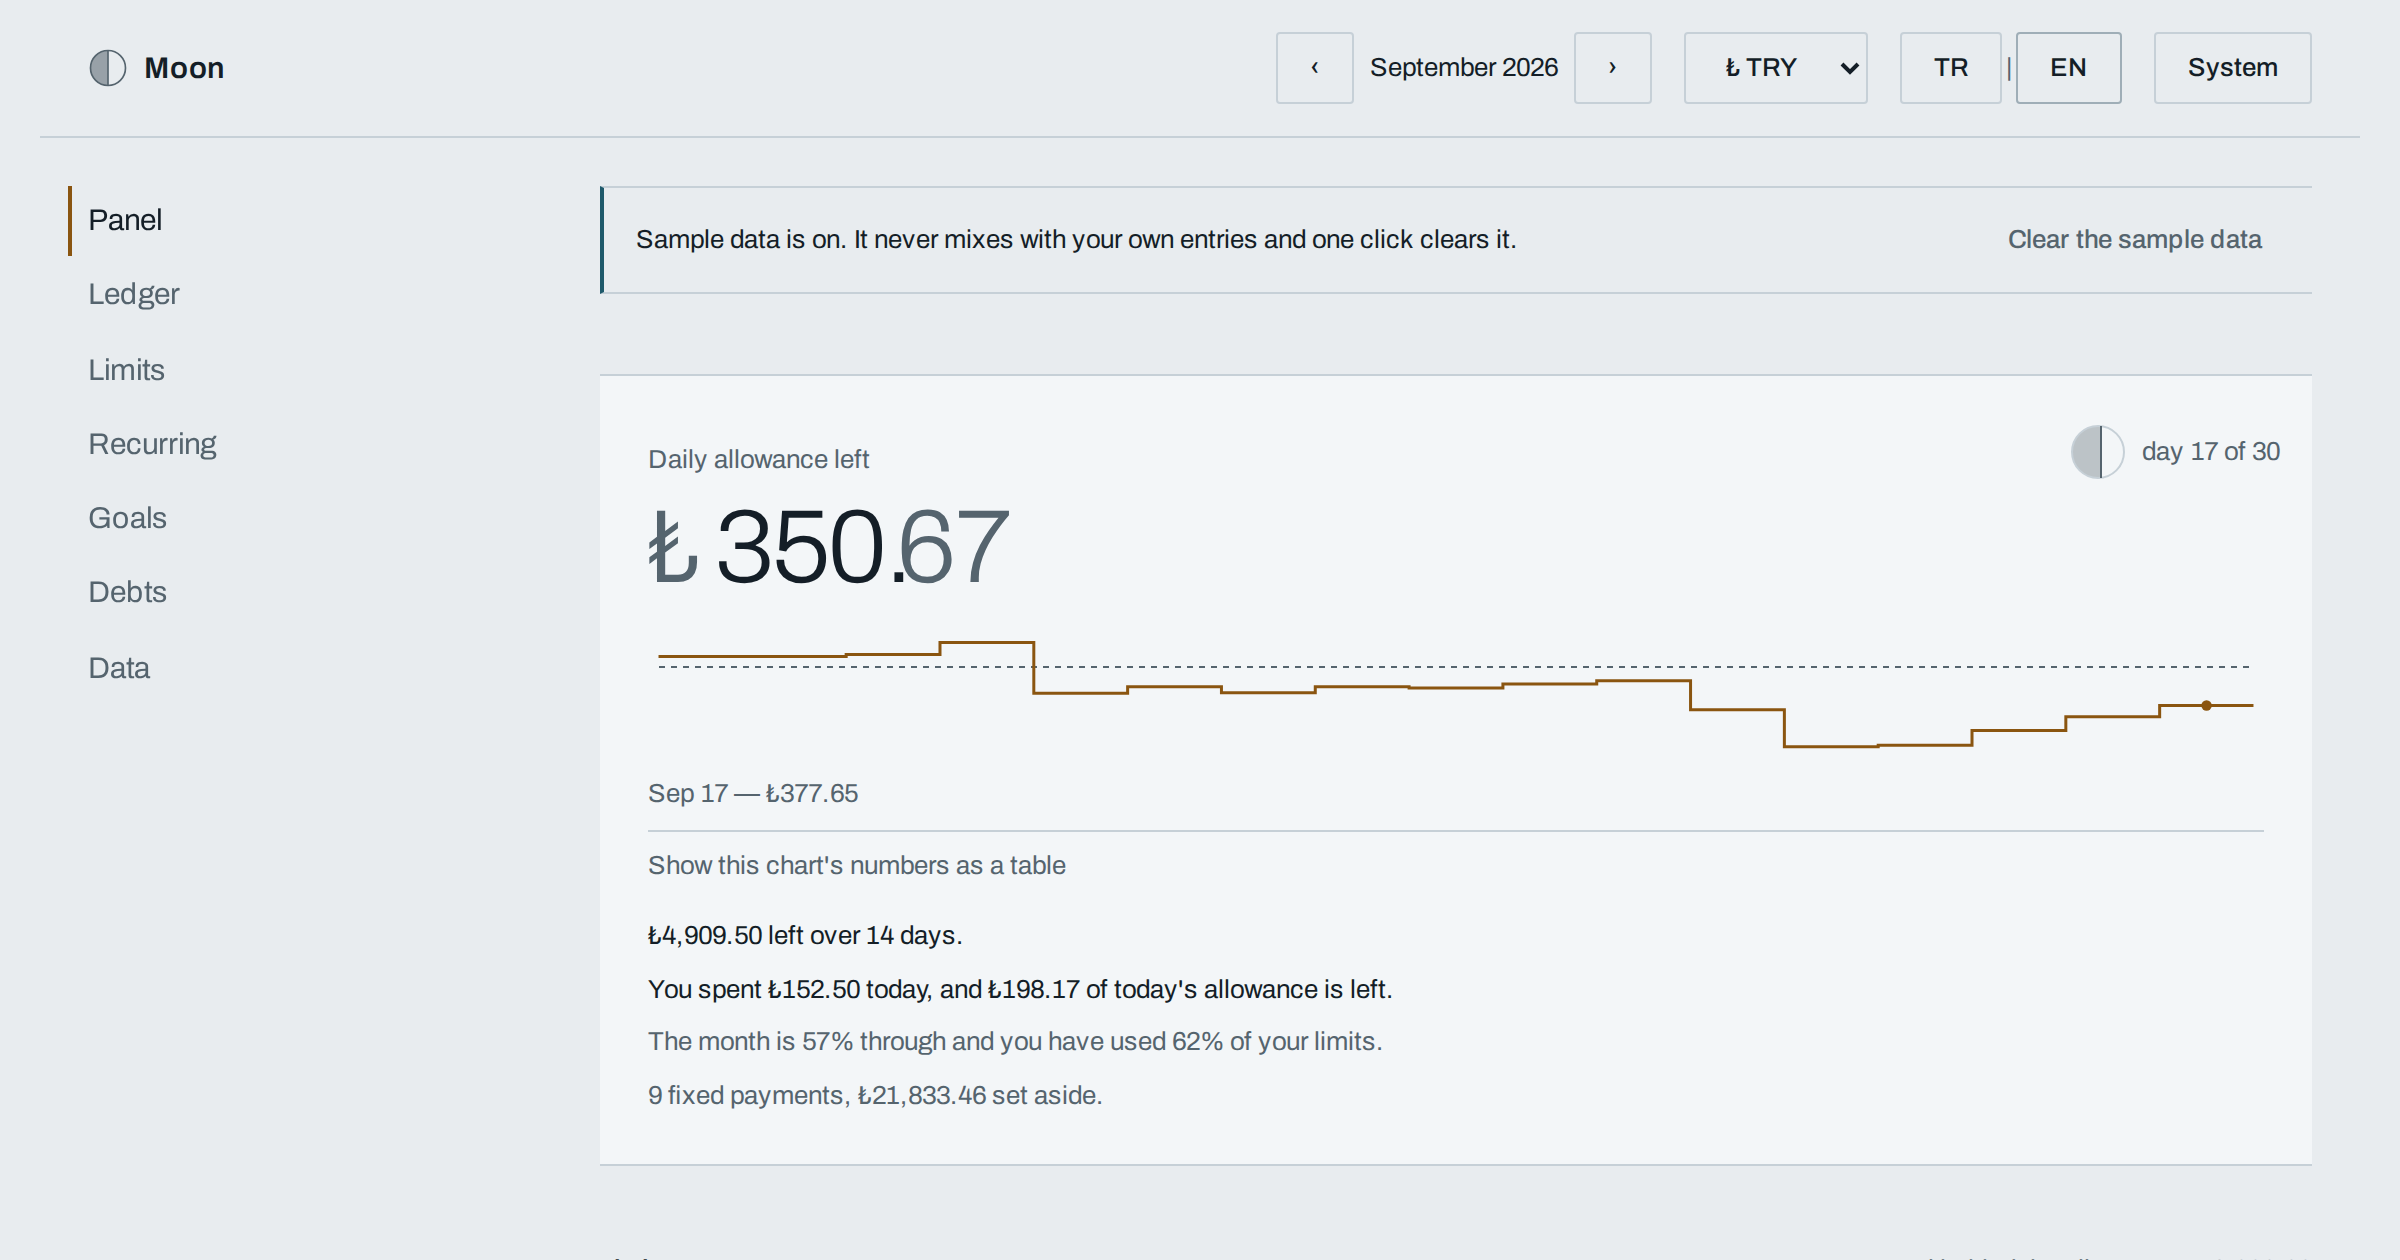
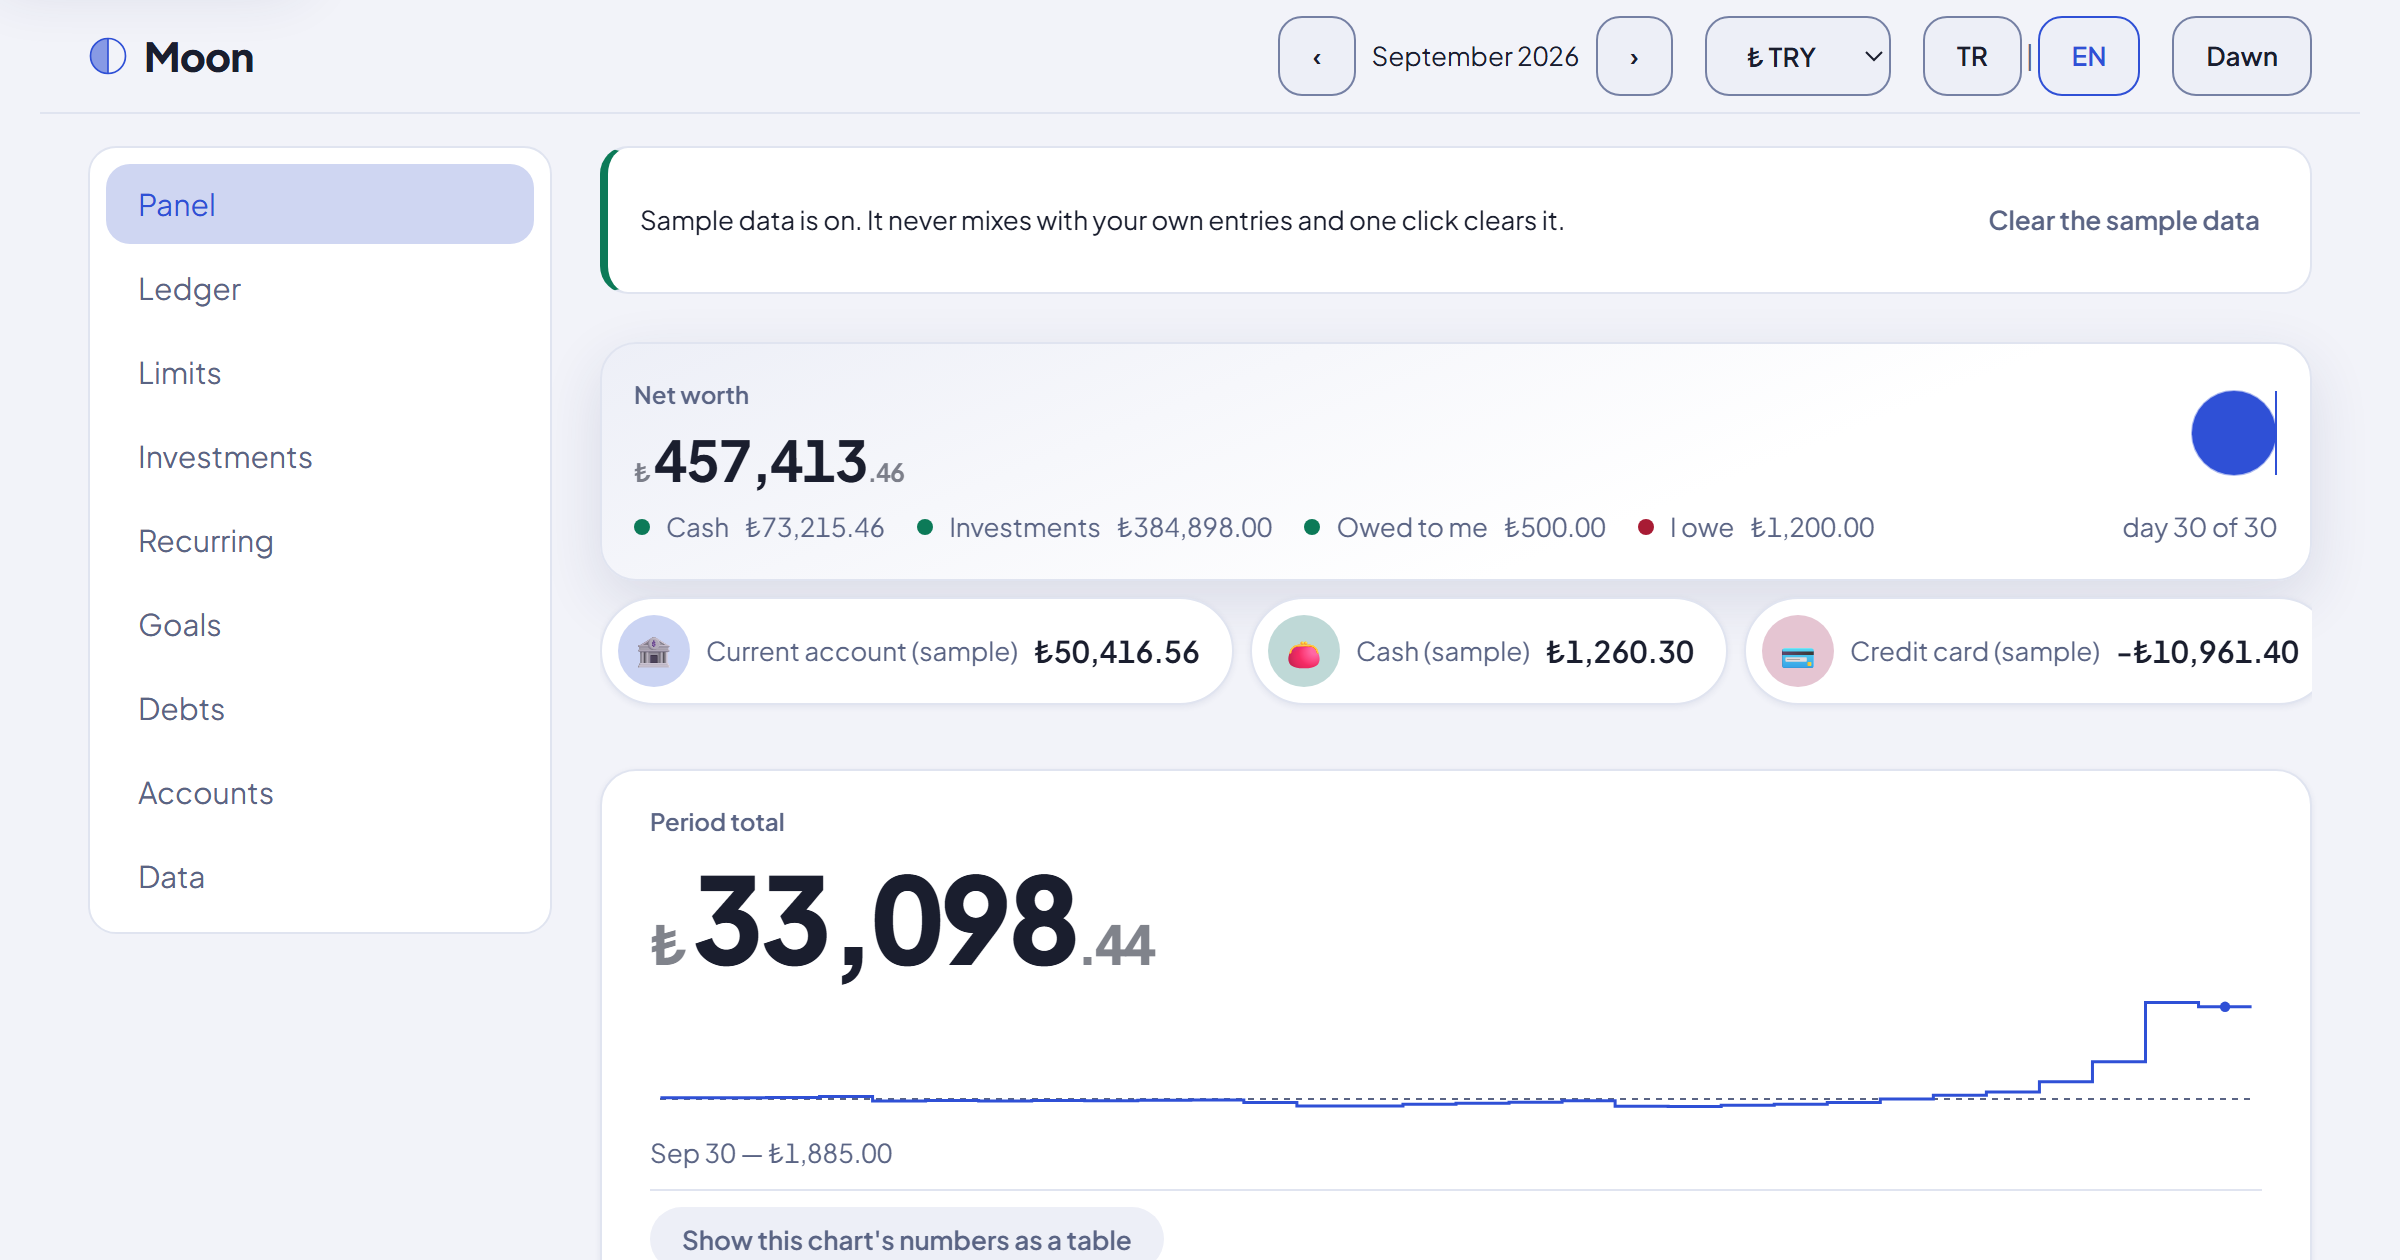
Say what Moon does now, and show it
The README described a spending ledger with CSV import and four sections.
It has had a PDF reader since this morning and gained accounts, holdings
and a net worth since lunch, and the preview images still showed the old
instrument face.

All four previews retaken from the real app with the sample month in it,
in both languages and both surfaces. Same 2400x1260, so the share card's
dimensions in index.html still hold.

The serving instructions now point at .claude/serve.py rather than
python -m http.server, because the latter sends no Cache-Control and will
hand you a script from an edit ago while you wonder why nothing changed.

diff --git a/README.md b/README.md
@@ -3,7 +3,7 @@
 [![tests](https://github.com/onuryildirim26/moon/actions/workflows/test.yml/badge.svg)](https://github.com/onuryildirim26/moon/actions/workflows/test.yml)
 [![licence: MIT](https://img.shields.io/badge/licence-MIT-informational)](LICENSE)
 ![dependencies: 0](https://img.shields.io/badge/dependencies-0-brightgreen)
-[![demo](https://img.shields.io/badge/demo-live-e6a94f)](https://onuryildirim26.github.io/moon/)
+[![demo](https://img.shields.io/badge/demo-live-8AA6FF)](https://onuryildirim26.github.io/moon/)
 
 A budget ledger that runs entirely in your browser. No account, no server, no build step,
 no dependencies — one HTML file and a handful of plain JavaScript files.
@@ -34,21 +34,34 @@ in the period. Fixed costs like rent are pulled out of that pool so one big paym
 
 ## What it does
 
-- **Write entries by hand** — date, amount, category, note. Ten seconds each.
-- **Import a bank statement** — drop a CSV, map the columns once, review what came in.
-  Turkish (`;` and `1.234,56`) and English (`,` and `1,234.56`) statements both work, along
-  with BOM headers, quoted delimiters, preamble junk and repeated header rows.
-- **Monthly limits per category** — shown as an instrument scale with a pace mark, so you
-  see whether you are ahead of or behind the month, not just a percentage.
+- **Write entries by hand** — date, amount, category, note. Enter saves and clears the row
+  for the next one, so a run of entries feels like typing lines, not opening dialogs.
+- **Import a bank statement** — drop a **CSV or a PDF**. The PDF reader is written here from
+  scratch: it inflates the content streams, resolves glyph numbers through each font's
+  ToUnicode map, and rebuilds the table from where the words sit on the page. No library.
+  Turkish (`;` and `1.234,56`) and English (`,` and `1,234.56`) formats both work.
+- **Monthly limits per category** — one rounded bar in the category's own colour, with a
+  pace mark, so you see whether you are ahead of or behind the month. Drag the cap to
+  change a limit, or click the figure and type.
+- **Accounts** — a bank account, cash, a card, savings. Each with an opening balance and a
+  running one. An entry may belong to one; it never has to.
+- **Investments** — shares, funds, gold, currency, crypto, property. Quantity, cost and the
+  price you last typed, with gain in money and per cent, a value trail and a share-by-kind
+  bar. Prices are typed in, never fetched: no API means no key and no account.
+- **Net worth** — cash plus holdings plus what you are owed, less what you owe.
 - **Recurring payments** — rent, bills, subscriptions. Marked as fixed so they stay out of
   the daily allowance and are reported separately.
 - **Savings goals** — how much, by when, and what that means per month.
 - **Debts** — who owes whom, settled or open. Never mixed into the budget maths.
 - **Charts, hand-drawn in SVG** — an allowance trail, a day seismograph, a cumulative curve
-  against a pace diagonal, and a twelve-month density grid. No chart library, and no pie
-  chart anywhere: the human eye cannot compare eight angles.
+  against a pace diagonal, a twelve-month density grid, a portfolio value trail and a
+  share-by-kind bar. No chart library, and no pie chart anywhere: the human eye cannot
+  compare eight angles.
+- **A colour and an icon on every category, account and holding.**
+- **Installable** — a manifest and a service worker, so you can add Moon to a phone's home
+  screen and use it in flight mode.
 - **Turkish and English**, switchable at any time. Four currencies.
-- **Dark and light** — the dial and the paper. Follows your system unless you pick one.
+- **Night and Dawn**, plus a colourful Prism. Follows your system unless you pick one.
 
 ## Your data
 
@@ -82,11 +95,15 @@ against `file://` on purpose: classic script tags, no ES modules, no `fetch`.
 **Or serve it,** if you prefer a real origin:
 
 ```bash
-python -m http.server 8791
+python .claude/serve.py 8791
 ```
 
-Two sample statements are in `ornek/` if you want to try the importer before trusting it
-with your own: `ornek-ekstre-tr.csv` (Turkish bank format) and `sample-statement-en.csv`.
+That helper exists because `python -m http.server` sends no `Cache-Control`, and a browser
+will happily serve you a script from an edit ago while you wonder why nothing changed.
+
+Three sample statements are in `ornek/` if you want to try the importer before trusting it
+with your own: `ornek-ekstre-tr.csv` (Turkish bank format), `sample-statement-en.csv`, and
+`ornek-ekstre-tr.pdf` — a real printed statement, for the PDF reader.
 There is also a sample month built into the app — one click to load, one to clear.
 
 ## How it is built
@@ -105,14 +122,17 @@ js/lang.tr.js       Turkish catalogue
 js/lang.en.js       English catalogue
 js/i18n.js          lookup, placeholders, plurals
 js/store.js         localStorage, schema validation, migrations, export/import
-js/model.js         records, validation, derived measurements
+js/model.js         records, validation, derived measurements, net worth
 js/csv.js           encoding, delimiter sniffing, quote-aware parser
+js/pdf.js           a PDF text extractor: inflate, ToUnicode, words back into a table
 js/importer.js      column roles, duplicates, review
-js/charts.js        five hand-written SVG charts + the limit scale
-js/ui.js            dialogs, fields, money cells, undo strip, empty states
-js/sample.js        the sample month
+js/charts.js        hand-written SVG charts, the limit bar and the moon phase
+js/ui.js            fields, quick rows, inline values, pickers, undo strip
+js/sample.js        the sample month, its accounts and its holdings
 js/views.*.js       one file per section
-js/app.js           boot, hash router, theme, period
+js/app.js           boot, hash router, theme, period, worker registration
+sw.js               the offline shell
+manifest.webmanifest  what a phone needs to install it
 tests/              node --test, no dependencies (see Tests below)
 ```
 

diff --git a/README.tr.md b/README.tr.md
@@ -3,7 +3,7 @@
 [![tests](https://github.com/onuryildirim26/moon/actions/workflows/test.yml/badge.svg)](https://github.com/onuryildirim26/moon/actions/workflows/test.yml)
 [![licence: MIT](https://img.shields.io/badge/licence-MIT-informational)](LICENSE)
 ![dependencies: 0](https://img.shields.io/badge/dependencies-0-brightgreen)
-[![demo](https://img.shields.io/badge/demo-live-e6a94f)](https://onuryildirim26.github.io/moon/)
+[![demo](https://img.shields.io/badge/demo-live-8AA6FF)](https://onuryildirim26.github.io/moon/)
 
 Tamamen tarayıcında çalışan bir bütçe defteri. Hesap yok, sunucu yok, kurulum yok,
 bağımlılık yok — bir HTML dosyası ve birkaç düz JavaScript dosyası.
@@ -34,22 +34,35 @@ felaket gibi göstermez.
 
 ## Ne yapar
 
-- **Elle kayıt** — tarih, tutar, kategori, açıklama. Her biri on saniye.
-- **Ekstre yükleme** — CSV'yi bırak, sütunları bir kez eşleştir, geleni incele.
+- **Elle kayıt** — tarih, tutar, kategori, açıklama. Enter kaydeder ve satırı bir sonraki
+  için boşaltır; arka arkaya kayıt girmek pencere açmak değil, satır yazmak gibi.
+- **Ekstre yükleme** — **CSV ya da PDF** bırak. PDF okuyucu buradan yazıldı: içerik
+  akışlarını açıyor, glif numaralarını her yazı tipinin ToUnicode tablosundan harfe
+  çeviriyor ve tabloyu kelimelerin sayfadaki yerinden yeniden kuruyor. Kütüphane yok.
   Türk bankası biçimi (`;` ve `1.234,56`) ve İngilizce biçim (`,` ve `1,234.56`) birlikte
   çalışır; BOM'lu başlık, tırnak içindeki ayırıcı, baştaki serbest metin ve tekrar eden
   başlık satırları da.
-- **Kategori başına aylık limit** — hız işaretli bir ölçek olarak gösterilir; yüzdeyi değil,
-  ayın önünde mi gerisinde mi olduğunu görürsün.
+- **Kategori başına aylık limit** — kategorinin kendi renginde tek bir yuvarlak çubuk ve
+  üstünde hız işareti; ayın önünde mi gerisinde mi olduğunu görürsün. Limiti değiştirmek
+  için ucunu sürükle ya da rakamın üstüne tıklayıp yaz.
+- **Hesaplar** — vadesiz hesap, nakit, kredi kartı, birikim. Her birinin açılış bakiyesi ve
+  işleyen bakiyesi var. Bir kayıt bir hesaba bağlanabilir; bağlanmak zorunda değil.
+- **Yatırımlar** — hisse, fon, altın, döviz, kripto, gayrimenkul. Miktar, maliyet ve en son
+  yazdığın fiyat; kazancı hem para hem yüzde olarak, değer izi ve türe göre pay çubuğuyla.
+  Fiyatlar elle girilir, hiçbir yerden çekilmez: API yoksa anahtar da hesap da yok.
+- **Toplam varlık** — nakit, yatırımlar ve alacağın toplamından borcun düşülmüş hâli.
 - **Tekrarlayan ödemeler** — kira, faturalar, abonelikler. Sabit olarak işaretlenir, günlük
   payın dışında tutulur ve ayrı raporlanır.
 - **Tasarruf hedefleri** — ne kadar, ne zamana, ayda kaça denk geliyor.
 - **Borç ve alacak** — kim kime ne borçlu, ödendi mi. Bütçe hesabına asla karışmaz.
 - **Elle yazılmış SVG grafikler** — pay izi, gün sismografı, hız köşegenine karşı kümülatif
-  eğri ve on iki aylık yoğunluk ızgarası. Grafik kütüphanesi yok, hiçbir yerde pasta grafiği
-  yok: insan gözü sekiz açıyı karşılaştıramaz.
+  eğri, on iki aylık yoğunluk ızgarası, portföy değer izi ve türe göre pay çubuğu. Grafik
+  kütüphanesi yok, hiçbir yerde pasta grafiği yok: insan gözü sekiz açıyı karşılaştıramaz.
+- **Her kategoriye, hesaba ve yatırıma bir renk ve bir simge.**
+- **Telefona kurulabilir** — manifest ve servis çalışanı var; ana ekrana ekleyip uçak
+  modunda da kullanabilirsin.
 - **Türkçe ve İngilizce**, her an değiştirilebilir. Dört para birimi.
-- **Koyu ve açık** — kadran ve kâğıt. Sen seçmedikçe sistemini izler.
+- **Gece ve Şafak**, bir de rengârenk Prizma. Sen seçmedikçe sistemini izler.
 
 ## Verin
 
@@ -81,7 +94,8 @@ git clone https://github.com/onuryildirim26/moon.git
 Sonra `index.html` dosyasına çift tıkla. Kurulum bundan ibaret. Moon bilerek `file://` ile
 çalışacak şekilde yazıldı: klasik script etiketleri, ES module yok, `fetch` yok.
 
-Denemek için `ornek/` klasöründe iki örnek ekstre var: `ornek-ekstre-tr.csv` ve
+Denemek için `ornek/` klasöründe üç örnek ekstre var: `ornek-ekstre-tr.csv`,
+`ornek-ekstre-tr.pdf` (gerçek bir çıktı, PDF okuyucu için) ve
 `sample-statement-en.csv`. Uygulamanın içinde de hazır bir örnek ay var — bir tuşla yüklenir,
 bir tuşla temizlenir.
 
